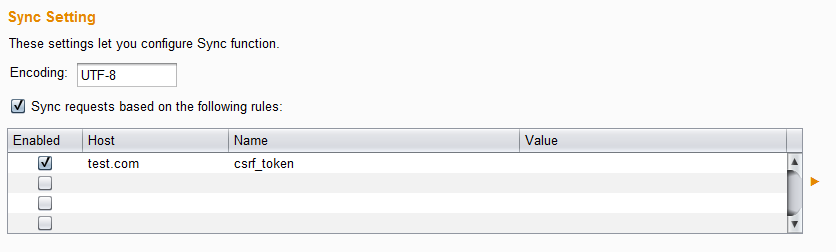
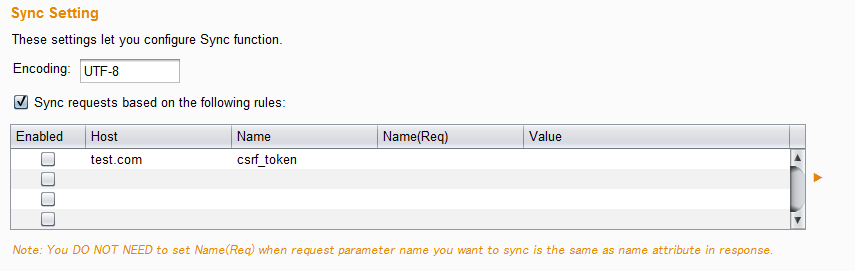
RELEASE 1.1 for BApp Store

Changed region(s): [[0.0, 0.0278, 0.9952, 0.9444], [0.0933, 0.6389, 0.1866, 0.6667]]

diff --git a/README.MD b/README.MD
@@ -16,6 +16,8 @@ Sync Parameter is an extension to Burp Suite that provides a sync function for C
 
   * Name - Target request parameter name.
   
+  * Name(Req) - Target request parameter name. (You DO NOT NEED to set Name(Req) when request parameter name you want to sync is the same as name attribute in response.)
+  
   * Value - You do not have to set this. This value will be automatically updated when synchronized.
 
 ## Sample Configuration
